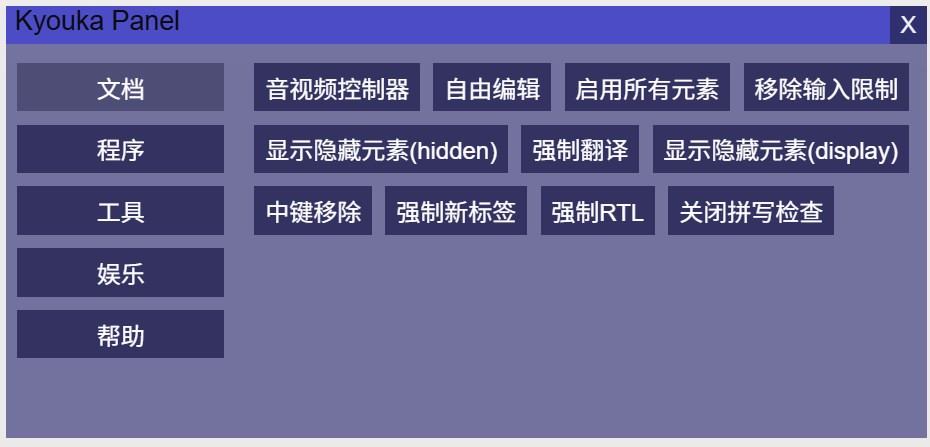
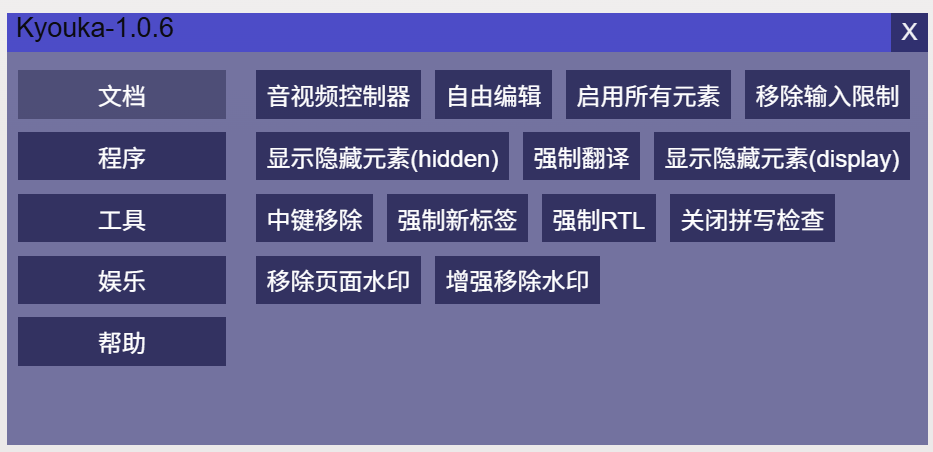
添加统计页面信息功能 更新版本号 更新文档

Changed region(s): [[0.0, 0.0, 0.9978, 0.8143], [0.0, 0.9597, 0.9978, 0.9888]]

diff --git a/src/inject/tools.ts b/src/inject/tools.ts
@@ -1,7 +1,7 @@
 ///<reference path="../dom.d.ts" />
 import { Hooker } from "./hook/hooker";
 import { OriginObjects } from "./hook/originObjects";
-import { showToast } from "./util";
+import { parseFileSize, showToast } from "./util";
 const shadowDomDiv = document.getElementById("kyouka-menu");
 let recorder: MediaRecorder | null = null;
 function wheelRemoveElementEventListener(event: MouseEvent) {
@@ -778,7 +778,7 @@ export const Tools: { [key: string]: () => void } = {
             return showToast("该功能已执行过")
         }
         const atobHook = Hooker.hookMethod<any>(window, "atob", "window.atob", {
-            afterMethodInvoke(_args,tempMethodResult) {
+            afterMethodInvoke(_args, tempMethodResult) {
                 OriginObjects.console.log("Base64 decode:", tempMethodResult.current)
             },
         });
@@ -788,5 +788,76 @@ export const Tools: { [key: string]: () => void } = {
             },
         });
         showToast(atobHook && parseHook ? "执行成功" : "执行失败 详见控制台")
-    }
+    },
+    "pageInfo": async () => {
+        showToast("统计中...")
+        const scriptElementCount = document.querySelectorAll("script").length;
+        const styleElementCount = document.querySelectorAll("style").length;
+        const resourcesInfoList: PerformanceResourceTiming[] = performance.getEntriesByType("resource");
+        const resCounts = {
+            //css文件
+            cssCount: 0,
+            //由css引用的文件
+            cssRefCount: 0,
+            //js文件
+            jsCount: 0,
+            //音频
+            audioCount: 0,
+            //sendBeacon发送的数据
+            beaconCount: 0,
+            //网络请求
+            networkCount: 0,
+            //图片
+            imgCount: 0,
+            //视频
+            videoCount: 0
+        };
+        for (const resInfo of resourcesInfoList) {
+            switch (resInfo.initiatorType) {
+                case "link":
+                    if (resInfo.name.endsWith(".css")) {
+                        resCounts.cssCount++;
+                    }
+                    break;
+                case "css":
+                    resCounts.cssRefCount++;
+                    break;
+                case "script":
+                    resCounts.jsCount++;
+                    break;
+                case "audio":
+                    resCounts.audioCount++;
+                    break;
+                case "beacon":
+                    resCounts.beaconCount++;
+                    return
+                case "fetch":
+                case "xmlhttprequest":
+                    resCounts.networkCount++;
+                    break;
+                case "image":
+                    resCounts.imgCount++;
+                    break
+                case "video":
+                    resCounts.videoCount++;
+                    break
+                default:
+                    break;
+            }
+        }
+        const indexedDbCount = (await indexedDB.databases()).length;
+        const cachesCount = (await caches.keys()).length;
+        const storageBucketCount =(await (navigator.storageBuckets.keys())).length
+        const totalSize=(await navigator.storage.estimate()).usage
+        alert(`数据准确度一般 仅供参考 部分项目仅计算从网络加载的内容数量
+---- PAGE 1/2 ----
+script元素数:${scriptElementCount} style元素数:${styleElementCount}
+CSS文件:${resCounts.cssCount} CSS引用数据:${resCounts.cssRefCount} JavaScript文件:${resCounts.jsCount}
+音频:${resCounts.audioCount} 图片:${resCounts.networkCount}\ 视频:${resCounts.videoCount}
+其他网络请求:${resCounts.networkCount} 信标请求:${resCounts.beaconCount}`)
+        alert(`---- PAGE 2/2 ----
+本地存储条目:${localStorage.length} 会话存储条目:${sessionStorage.length}
+IndexedDb数据库:${indexedDbCount} 缓存:${cachesCount} 存储桶:${storageBucketCount}
+资源总占用:${totalSize?parseFileSize(totalSize):"计算失败"}`)
+    },
 }

diff --git a/assets/menu.html b/assets/menu.html
@@ -70,6 +70,7 @@
         <button class="itemButton toolButton" tool="changeTitle" tooltip="修改标签页显示的标题">修改标题</button>
         <button class="itemButton toolButton" tool="copyTitle" tooltip="修改标签页显示的标题">复制标题</button>
         <button class="itemButton toolButton" tool="closePageConfirm" tooltip="离开页面时弹出二次确认\n不保证所有浏览器都能生效">离开页面确认</button>
+        <button class="itemButton toolButton" tool="pageInfo" tooltip="统计并显示一些页面相关信息\n准确性一般 仅供参考">页面信息</button>
       </div>
       <div class="toolList" type="about" style="display: none;">
         <button class="itemButton toolButton" tool="openRepository">项目链接</button>

diff --git a/src/inject/util.ts b/src/inject/util.ts
@@ -73,3 +73,21 @@ function getFakeNativeToString() {
     toString.prototype = void 0;
     return toString;
 }
+export function parseFileSize(size: number): string {
+    if (size < 1024) {
+        return `${size} B`
+    }
+    const sizeKB = size / 1024;
+    if (sizeKB < 1024) {
+        return `${sizeKB.toFixed(2)} KB`
+    }
+    const sizeMB = sizeKB / 1024;
+    if (sizeMB < 1024) {
+        return `${sizeMB.toFixed(2)} MB`
+    }
+    const sizeGB = sizeMB / 1024;
+    if (sizeGB < 1024) {
+        return `${sizeGB.toFixed(2)} GB`
+    }
+    return `${(sizeGB / 1024).toFixed(2)} TB`
+}

diff --git a/src/dom.d.ts b/src/dom.d.ts
@@ -8,3 +8,11 @@ declare var documentPictureInPicture:{
 }
 declare function showOpenFilePicker():Promise<FileSystemFileHandle[]>
 declare function showSaveFilePicker(options?:{suggestedName:string}):Promise<FileSystemFileHandle>
+declare interface Performance{
+    getEntriesByType(type:"resource"):PerformanceResourceTiming[]
+}
+declare interface NavigatorStorage{
+    storageBuckets:{
+        keys():Promise<any[]>
+    }
+}

diff --git a/README.md b/README.md
@@ -28,6 +28,7 @@
 - 持久化Cookie
 - 强制属性可配置
 - 打印页面JSON操作(stringify parse)
+- 打印页面Base64操作(atob btoa)
 - 屏幕像素取色
 - 将页面转为文档画中画
 - 录制Canvas
@@ -39,6 +40,7 @@
 - 伪造页面事件
 - 移除页面水印
 - 离开页面确认
+- 统计页面数据
 
 ### 最后
 感谢使用
